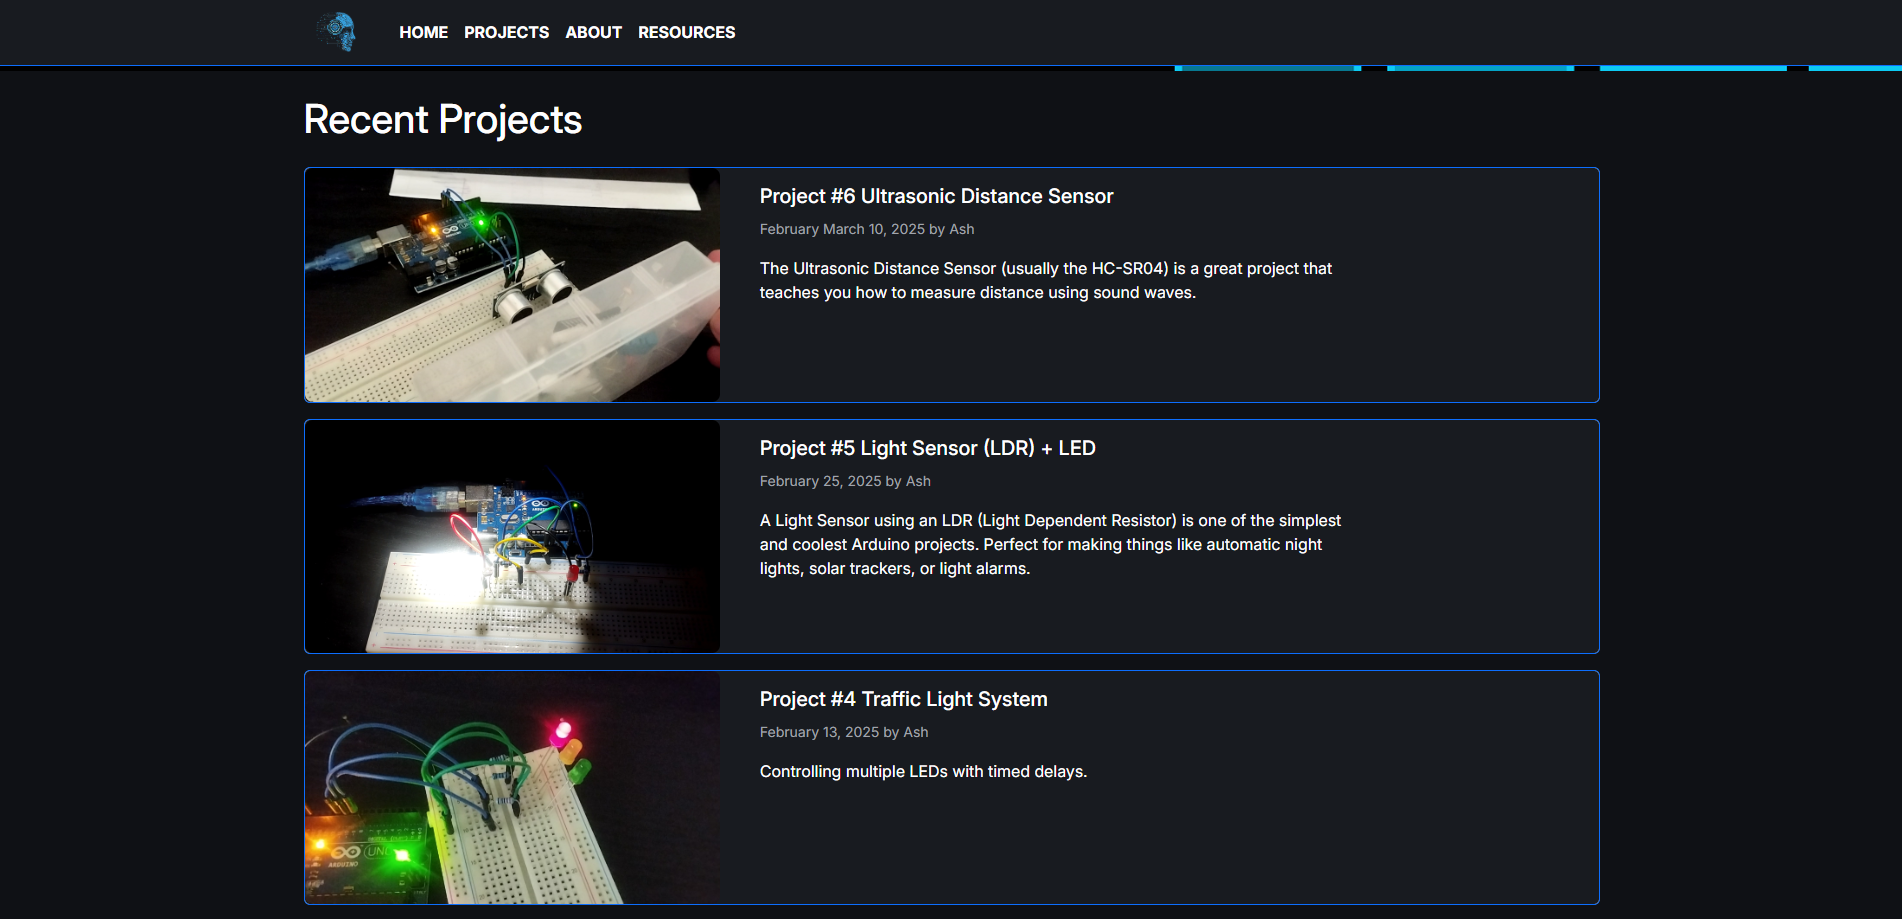
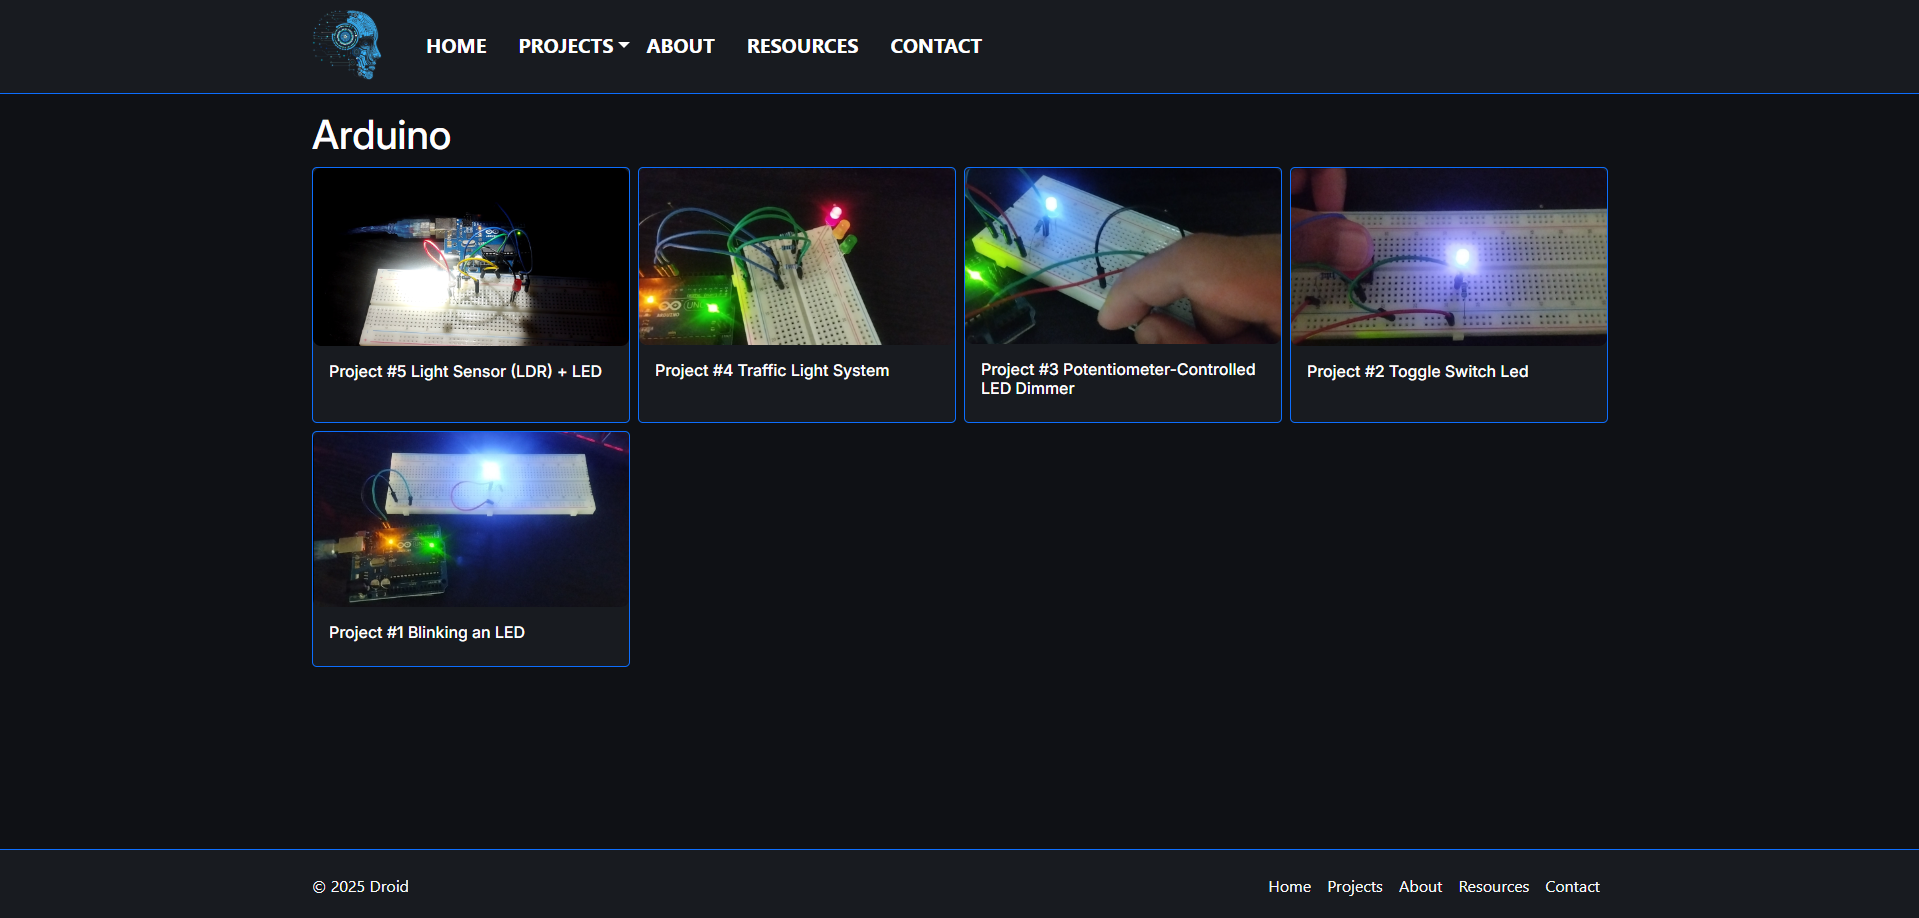
updates

Changed region(s): [[0.0, 0.0, 1.0, 0.854], [0.1551, 0.7625, 0.3412, 1.0], [0.6514, 0.9455, 0.8375, 0.976]]

diff --git a/src/components/Hero.jsx b/src/components/Hero.jsx
@@ -22,7 +22,7 @@ return (
         <div>
             <h1 className="display-5 fw-bold text-danger text-center">I'm Ash</h1>
                 <div className="col-lg-6 mx-auto text-white text-center">
-                    <p className="lead mb-4">Bringing pixels to life, one frame at a time.</p>
+                    <p className="lead mb-4">Blending code and creativity to bring ideas to life.</p>
                     <a href="#project-section" className=""><button type="button" className="custom-btn">View Web Projects</button></a>
                     <a href="https://www.instagram.com/kuroi_3d/" target="_blank" className="mx-2"><button type="button" className="custom-btn">View 3D Projects</button></a>
                     <a href='/ash-portfolio/Resume-Web-Dev.pdf' target="_blank" className=""><button type="button" className="custom-btn">Download CV</button></a>

diff --git a/src/components/AboutMe.jsx b/src/components/AboutMe.jsx
@@ -11,7 +11,7 @@ return (
                     <h1 className="text-danger m-0 fw-bolder">I'm Ashlee Zoe Gesite</h1>
                     <small className="">Location: Bohol, Philippines</small>
                     <small className="text-secondary">Front End Web Developer | 3D Artist</small>
-                    <p className="m-0">I specialize in creating interactive websites and designing immersive 3D assets. Passionate about crafting digital experiences with a blend of creativity and technology.</p>
+                    <p className="m-0">I'm a front-end developer and 3D environment artist crafting interactive websites and immersive visuals.</p>
                 </div>
             </section>
 

diff --git a/src/components/Project.jsx b/src/components/Project.jsx
@@ -40,10 +40,10 @@ const Projects = () => {
   return (
 
     <section className="bg-black py-5" id="project-section">
-    <div className="container">
+    <div className="container-fluid">
       <h1 className="text-danger text-center mb-5">PROJECTS</h1>
 
-      <div className="row row-cols-1 g-4">
+      <div className="row row-cols-1 row-cols-lg-2 g-2">
         {projects.length === 0 ? (
           <p className="text-center text-white">No projects found.</p>
         ) : (
